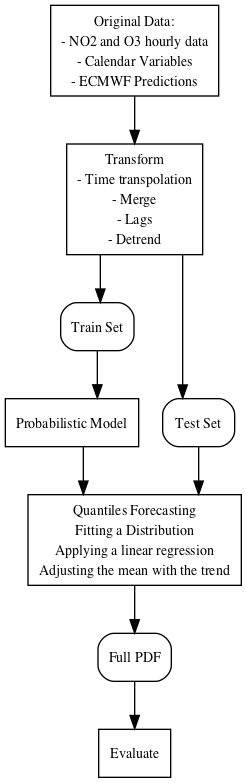
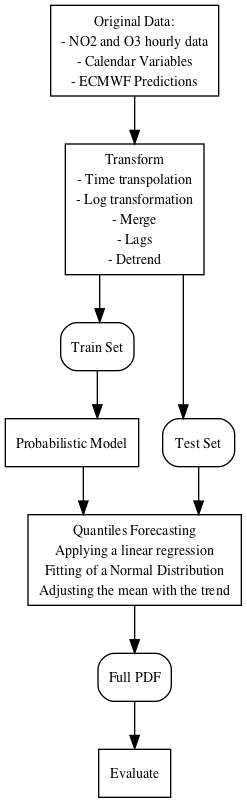
Updated results table and added linear regression description

diff --git a/perez2018probabilistic.tex b/perez2018probabilistic.tex
@@ -25,7 +25,7 @@
 
 \title{A comparison of probabilistic forecasting methods for extreme \no pollution episodes}
 
-\author{Sebasti\'an P\'erez Vasseur}
+\author{Sebasti\'an P\'erez Vasseur} 
 \address{Artificial Intelligence Department\\Universidad Nacional de
   Educaci\'on a Distancia --- UNED\\c/ Juan del Rosal, 16, Madrid, Spain}
 
@@ -127,7 +127,14 @@ They are classified into
 three types: background stations, suburban stations 
 and traffic stations. 
 
-For this study, we have selected the Diaz Aguirre station .
+For this study, we have selected the Diaz Aguirre station.
+
+After analysis of the $NO_2$ values, we have identified them 
+as belonging to a lognormal distribution and therefore we transformed to 
+the log of the values. This has 2 positive effects: the tail of a normal distribution 
+is not as long as for the lognom (so we will have better quantile estimations) and 
+it helps with linear models like the linear quantile regression.
+
 The time series for this station consists of hourly
 measured values of the airborne concentrations of NO2
 from 01/01/2000 to 30/11/2017. These values exhibit a clear intraday 
@@ -267,44 +274,37 @@ and the whole forecasted CDF through the CRPS. We will perform
 this evaluation for each of the horizons.
 
 
-
 \subsection{Probabilistic Models}
 \label{sec:models}
 
-\subsubsection{Xarima}
-
-\subsubsection{$k$ nearest neighbors}
-
-We will use the probabilistic $k$ nearest neighbors algorithm as described in  
-\cite{quantileknnmangalova}. 
-This algorithm is based on the standard $k$ nearest neighbor, where instead of calculating the mean of 
-the targets of the
-$k$ nearest points to the input, it builds a distribution 
-from those neighbors.
-
-Also we are approximating the obtained percentiles to the percentiles of a lognorm function. 
-This allows us to provide information to the algorythm on the expected shape of the distribution.
-
-We found the best $k$ to be 250 after testing several values of $k$ and calculating 
-the rmse for a simple regression. 
-
+We will compare the following probabilistic models:
+\begin{itemize}
+  \item Quantile Random Forest
+  \item $k$ Nearest Neighbors
+  \item Linear Quantile regression
+  \item Quantile Gradient Boosting
+  \item Arima
+\end{itemize}
 
 \subsubsection{Quantile Random Forest}
 
 Quantile random forests create probabilistic predictions out of 
-the original observations. It works like a standard random forest, but then in each tree,
-leafs do not contain a single value as a prediction but the target observations from the training set 
-belonging to that leaf as represented in figure \ref{figure:qrandom} . 
-Then predictions are calculated by selecting the leafs corresponding to the input features and 
-building an histogram out of the target observations in those leafs. For more information refer to 
+the original observations. It works like the usual random forest, 
+except in each tree,
+leafs do not contain a single value as a prediction but the target observations 
+from the training set 
+belonging to that leaf (see figure \ref{figure:qrandom}) . 
+
+Then predictions are calculated by selecting the leafs in each tree
+corresponding to the input features and combining the weighted 
+histograms in each tree out of the target observations in those leafs. 
+For more information refer to 
 \cite{quantregforests}.
 
-As we observed a high bias on our experiments, we decided to train a linear regressor
-which predicts the $NO_2$ values from the 50th quantile, and then apply this linear regression 
+We decided to train a linear regressor
+which predicts the $NO_2$ values from the original features and the 50th quantile, 
+and then apply this linear regression 
 to all the predicted quantiles. 
-
-Also we are approximating the obtained percentiles to the percentiles of a lognorm function. 
-This allows us to provide information to the algorythm on the expected shape of the distribution.
 
 \begin{figure}
   \centering
@@ -313,13 +313,26 @@ This allows us to provide information to the algorythm on the expected shape of 
   \label{figure:qrandom}
 \end{figure}
 
-\subsubsection{Gradient Boosted Tree}
+\subsubsection{$k$ Nearest Neighbors}
 
-Tree Boosting \cite{gradientboost} is a widely used technique for machine learning 
-that consist on growing trees based on the compromise 
-of a cost function and a regularization function. This cost function is usually used to forecast 
-the mean of the signal. However we can modify this cost function to forecast a 
-percentile of the signal (for a detailed discussion of 
+We will use the probabilistic $k$ nearest neighbors algorithm as described in  
+\cite{quantileknnmangalova}. 
+This algorithm is based on the standard $k$ nearest neighbor, 
+where instead of calculating the mean of 
+the targets of the
+$k$ nearest points to the input, it builds a distribution 
+from those neighbors.
+
+We found the best $k$ to be 50 after testing several values of $k$ and calculating 
+the rmse for a simple regression.
+
+We also trained a linear regressor from the original features and the 50th quantile, 
+and applied it to all the predicted quantiles. 
+
+\subsubsection{Linear Quantile regression}
+
+We can apply linear regression with a modified cost function in order to 
+predict the quantiles of the target (for a detailed discussion of 
 quantile regression, refer to \cite{koenker_quantile_2005}). 
 
 Given a 
@@ -361,18 +374,25 @@ where
 with $\tau \in (0,1)$. Equation (\ref{eq:3}) represents the
 median when $\tau=0.5$ and the $\tau$-th quantile in any other case.
 
-We will use the XGBoost algorythm \cite{xgb} since the running time is lower and we will change the cost 
-function by introducing additional parameters as stated in \cite{qxgb}. This will provide better 
-convergence for the gradient descent algorithm. We will use Grid Search with the CRPS metric 
-to find the best parameters for the boosted trees.
+We will train 10 models to predict the 10 deciles of the signal. As quantiles are 
+calculated separately, we have the risk of encountering quantile crossing.
+We will use the simple technique as explained in \cite{cross} to solve this problem.
 
-By forecasting different quantiles, we
-can forecast the CDF of the time series. 
-The main drawback is that we need to build a model per quantile. And since quantiles 
-are calculated separately, 
-we can have quantile crossing, i.e. the non monotonicity of the predicted CDF. 
+\subsubsection{Gradient Boosted Tree}
 
-In order to solve that, we will reorder the quantiles as explained in \cite{xgb}. 
+Tree Boosting \cite{gradientboost} is a widely used technique for machine learning 
+that consist on growing trees based on the compromise 
+of a cost function and a regularization function. This cost function is usually 
+used to forecast 
+the mean of the signal. We will modify the cost function (im a similar way as in 
+the quantile linear regression) to predict the quantiles of the target. 
+
+We will train 10 models to predict the 10 deciles of the signal and we will solve 
+ quantile crossing with the technique explained in \cite{cross}. We also trained a 
+ linear regressor from the original features and the 50th quantile, 
+and applied it to all the predicted quantiles. 
+
+\subsubsection{Arima}
 
 \section{Results and discussion}
 \label{sec:results}
@@ -384,50 +404,33 @@ In the first experiment, we used quantile regression to compute
 point-forecasts of the expected value (median) for one-day ahead
 predictions of \no concentrations.
 
-% latex table generated in R 3.2.2 by xtable 1.7-4 package
-% Thu Mar 31 18:48:22 2016
 \begin{table}[tbp]
   \centering
   \label{tab:determ}
   \caption{CRPS Error for the different methods at different
-    horizons 
+    horizons (GB = Gradient Boosting,
+    KNN = K Nearest Neighbor,
+    LQR = Linear Quantile Regression,
+    QRF = Quantile Random Forest)
     }
-  \begin{tabular}{lrrrr}
-    \toprule
-    method &  Arima &   KNN &    RF &   XGB \\
-    horizon &        &       &       &       \\
-    \midrule
-    1       &   5.88 &  9.30 &  6.97 &  7.92 \\
-    12      &  14.92 & 20.22 & 17.53 & 16.04 \\
-    13      &  14.55 & 16.91 & 14.75 & 13.96 \\
-    14      &  12.95 & 14.62 & 12.66 & 12.24 \\
-    20      &   6.82 &  8.79 &  8.85 & 10.04 \\
-    37      &  15.29 & 23.20 & 18.63 & 18.42 \\
-    45      &   8.50 &  9.69 &  9.11 &  9.14 \\
-    55      &   7.51 & 12.11 & 12.13 & 16.59 \\
-    \bottomrule
-    \end{tabular}
+    \begin{tabular}{lrrrrr}
+      \toprule
+      method &  Arima &    GB &   KNN &   LQR &    QRF \\
+      horizon &        &       &       &       &       \\
+      \midrule
+      1       &   6.18 &  7.27 & 11.67 &  7.23 &  7.70 \\
+      12      &  13.52 & 15.84 & 21.68 & 18.13 & 17.01 \\
+      13      &  12.83 & 14.53 & 20.24 & 15.44 & 15.05 \\
+      14      &  11.54 & 12.05 & 19.13 & 13.24 & 13.42 \\
+      20      &   7.11 &  6.79 & 14.08 &  7.36 &  7.42 \\
+      37      &  13.31 & 16.28 & 19.24 & 16.71 & 16.19 \\
+      45      &   9.01 &  6.96 & 12.48 &  7.90 &  8.69 \\
+      55      &   6.22 & 11.50 & 17.94 & 12.63 & 13.29 \\
+      \bottomrule
+      \end{tabular}
   
 \end{table}
 
-
-\begin{figure}
-  \centering
-      \includegraphics[width=0.4\textwidth]{results/rmse}
-  \caption{RMSE Error per horizon and Method}
-\end{figure}
-
-\begin{figure}
-  \centering
-      \includegraphics[width=0.4\textwidth]{results/mae}
-  \caption{MAE Error per horizon and Method}
-\end{figure}
-
-\begin{figure}
-  \centering
-      \includegraphics[width=0.4\textwidth]{results/crps}
-  \caption{CRPS Error per horizon and Method}
-\end{figure}
 
 Table \ref{tab:determ} shows Arima outperforms the other Machine Learning algorithms.
 
